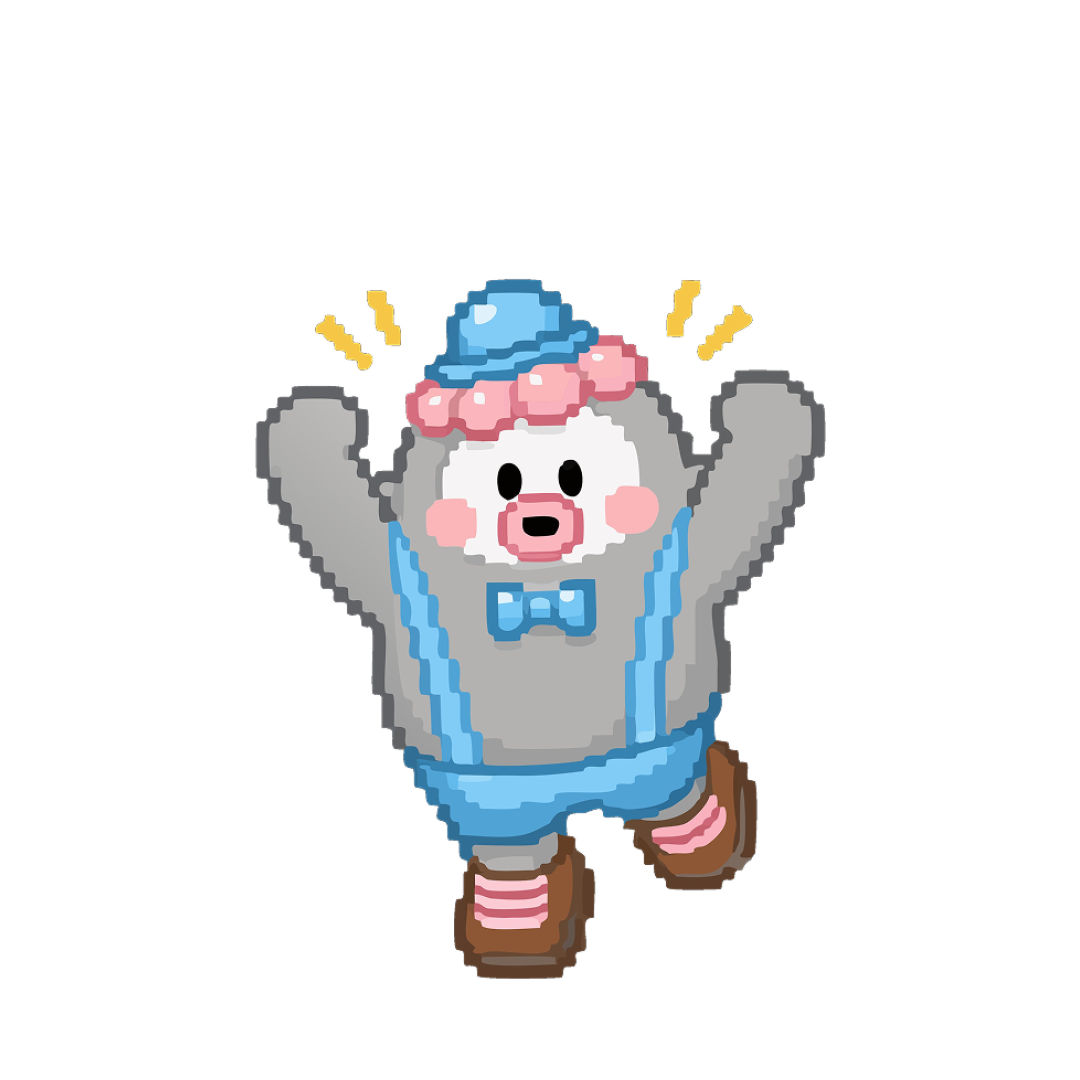
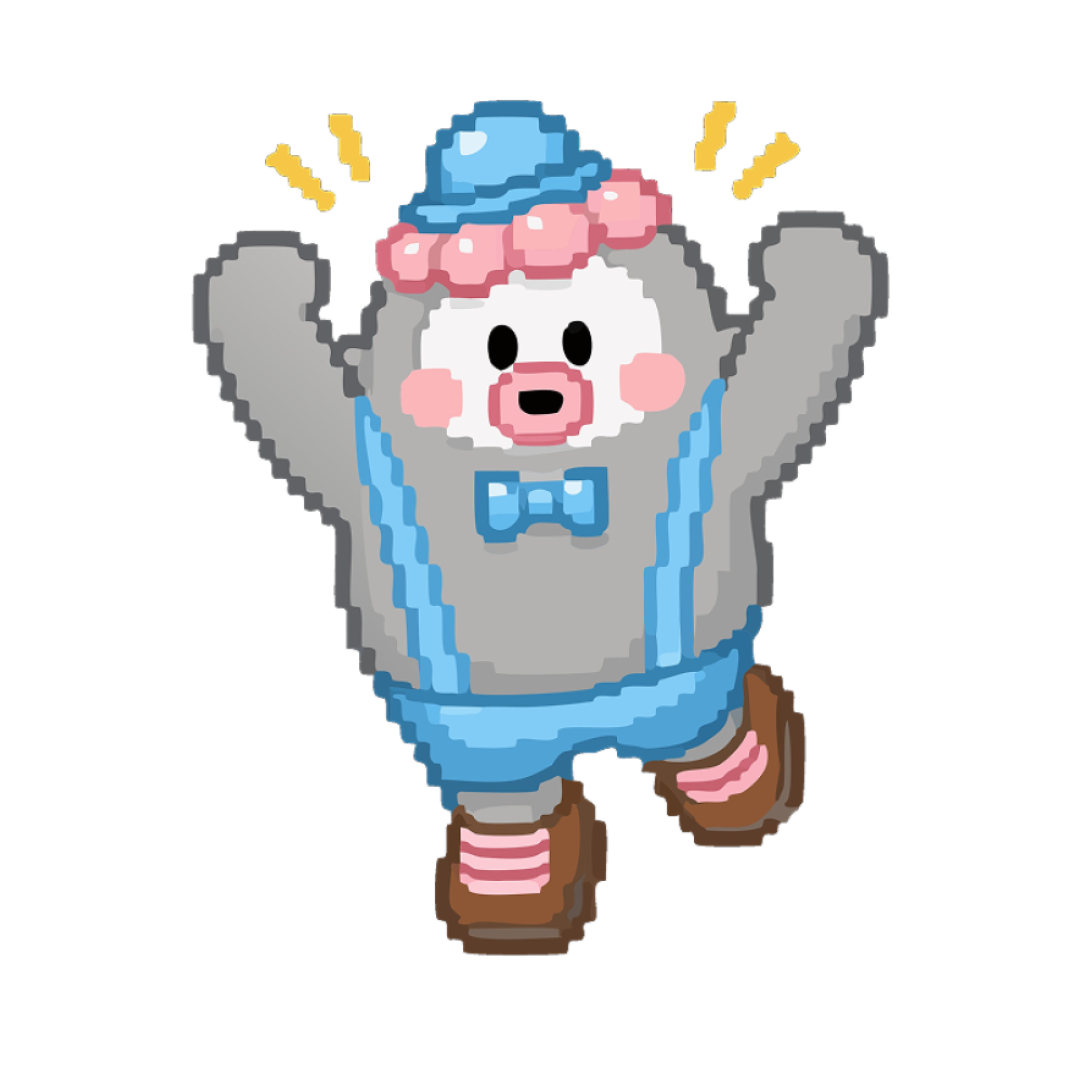
feat(character): 윙피 걷기 추가 + 모션 스케일 통일 + 말풍선 3줄 여유공간 + 꾸미기 편집 z-order 안정화 + 테스트 언락 플래그
- 윙피 걷기 모션 추가(idle 크기·발 위치 정규화, 3프레임 순환), 윙피 전체 모션을 idle 스케일(0.9)로 통일해 모션↔idle 전환 축소 제거
- 큰 캐릭터(윙피) 창 높이를 폭의 1.2배로(아래 정사각에 캐릭터 고정) 늘려 3줄 말풍선이 창 밖으로 잘리지 않게(말풍선 크기·위치는 유지). window:setSize는 아래변 고정으로 그라운딩 유지
- 꾸미기 편집 진입을 setWorldEditable에서 원자적으로(전체화면+표시+클릭수신+최상위) 처리, 오버레이는 normal 레벨·메뉴는 pop-up-menu 레벨로 z-order 고정 → 편집 중 전 화면 클릭 막힘 방지
- 테스트 빌드용 전체 잠금 해제: VITE_TEST_UNLOCK=1 빌드에서만 시작 시 캐릭터·펫·데코(각 99개) 강제 해제(runtime 카탈로그 id 사용, 기존 config 무관). 배포 빌드는 무동작

Changed region(s): [[0.1528, 0.0917, 0.825, 0.9167]]

diff --git a/src/renderer/src/app/App.tsx b/src/renderer/src/app/App.tsx
@@ -263,8 +263,9 @@ export const App = () => {
             return
         }
 
-        // 마지막 두 프레임만 번갈아 반복해 걸음걸이를 만든다.
-        const loop = frames.slice(-2)
+        // 걷기 순환 프레임. 기본은 마지막 두 프레임만 번갈아 반복.
+        // 윙피는 3프레임 전체를 순환한다(1번 포즈도 걷기에 포함되도록).
+        const loop = selectedCharacterId === 'wingpee' ? frames : frames.slice(-2)
         let frameIndex = 0
         setWalkFrameSrc(loop[0])
         const frameTimer = setInterval(() => {
@@ -403,16 +404,25 @@ export const App = () => {
     // 값 = 창 바닥에서의 %(말풍선 아래변 위치). 머리 위 공간을 최대한 써서 같은 크기 2줄도 안 잘리고
     // 캐릭터도 안 덮는다. 윙피는 CharacterView에서 8% 아래로 내려(머리 ~33.6%) 위 공간을 넓혔으므로,
     // 아래변을 위에서 ~33%(bottom 67%)에 둬 위로 자랄 공간을 창의 33%(≈79px)로 확보 → 3줄도 안 잘림.
-    const CHARACTER_BUBBLE_BOTTOM_PCT: Record<string, number> = { wingpee: 67 }
-    const bubbleBottomPct = CHARACTER_BUBBLE_BOTTOM_PCT[selectedCharacterId]
+    // 큰 캐릭터(윙피)는 창 높이를 폭보다 크게 잡아 머리 위 말풍선(3줄)이 창 밖으로 잘리지 않게 한다.
+    // 캐릭터는 아래 정사각 영역에 그대로 그려지고, 늘어난 위쪽은 말풍선 여유 공간으로만 쓴다.
+    const WINDOW_HEIGHT_RATIO: Record<string, number> = { wingpee: 1.2 }
+    const windowHeightRatio = WINDOW_HEIGHT_RATIO[selectedCharacterId] ?? 1
+    // 말풍선 아래변 위치(창 바닥 대비 %). 창이 높아진 만큼 %를 낮춰, 캐릭터 대비 위치는 그대로 유지한다.
+    const CHARACTER_BUBBLE_BOTTOM_PCT: Record<string, number> = { wingpee: 74 }
+    const rawBubbleBottomPct = CHARACTER_BUBBLE_BOTTOM_PCT[selectedCharacterId]
+    const bubbleBottomPct =
+        rawBubbleBottomPct === undefined
+            ? undefined
+            : Math.round(rawBubbleBottomPct / windowHeightRatio)
     useEffect(() => {
         // preload가 아직 setWindowSize를 노출하지 않으면(dev에서 preload 미재시작) 건너뛴다.
         if (!window.api?.setWindowSize) {
             return
         }
         const size = Math.round(BASE_WINDOW_SIZE * petScale)
-        window.api.setWindowSize(size, size)
-    }, [petScale])
+        window.api.setWindowSize(size, Math.round(size * windowHeightRatio))
+    }, [petScale, windowHeightRatio])
 
     // 생일 축하 — 생일 당일이면 축하 멘트 + 보너스 포인트(연 1회, localStorage로 중복 방지).
     const profileForBirthday = useProfile()
@@ -441,18 +451,30 @@ export const App = () => {
                 onClose={dismissSpeech}
                 bottomAnchorPct={bubbleBottomPct}
             />
-            <CharacterView
-                characterId={selectedCharacterId}
-                mood={mood}
-                state={characterState}
-                overrideSrc={overrideSrc}
-                isMotionFrame={isMotionFrame}
-                flip={walkDirection === 'left'}
-                onMouseDown={handleMouseDown}
-                onContextMenu={handleContextMenu}
-                onMouseEnter={startHoverExpression}
-                onMouseLeave={stopHoverExpression}
-            />
+            {/* 캐릭터는 창 하단의 정사각 영역에 그린다(그라운딩 유지). 창이 폭보다 높으면
+                늘어난 위쪽은 말풍선 공간으로만 남는다. 정사각일 땐 창 전체와 동일. */}
+            <div
+                style={{
+                    position: 'absolute',
+                    left: 0,
+                    right: 0,
+                    bottom: 0,
+                    aspectRatio: '1 / 1',
+                }}
+            >
+                <CharacterView
+                    characterId={selectedCharacterId}
+                    mood={mood}
+                    state={characterState}
+                    overrideSrc={overrideSrc}
+                    isMotionFrame={isMotionFrame}
+                    flip={walkDirection === 'left'}
+                    onMouseDown={handleMouseDown}
+                    onContextMenu={handleContextMenu}
+                    onMouseEnter={startHoverExpression}
+                    onMouseLeave={stopHoverExpression}
+                />
+            </div>
             {petId && (
                 <div
                     className='pet-companion'

diff --git a/src/main/index.ts b/src/main/index.ts
@@ -144,25 +144,37 @@ const setWorldEditable = (editable: boolean): void => {
     if (!worldWindow || worldWindow.isDestroyed()) {
         return
     }
-    worldWindow.setIgnoreMouseEvents(!editable)
     if (editable) {
-        // 편집 중엔 오버레이를 최상위로 올려 데코가 다른 창/바탕화면 뒤로 숨지 않게 한다.
-        // - macOS: 'normal' 레벨로만 올린다(기존 동작). Space 특성상 이걸로 충분하고,
-        //   'floating'으로 올리면 전체화면 데코가 메뉴 창을 덮는다.
-        // - Windows: always-on-top이 아니면 다른 창/바탕화면을 클릭하는 순간 오버레이가 그 뒤로
-        //   깔려 올린 데코가 안 보이고 편집이 막힌다("화면 멈춤"처럼 느껴짐). 그래서 항상 최상위로 유지.
-        //   메뉴 창은 아래 setMenuPanelOnTop에서 이 오버레이보다 더 위로 올려 저장/취소를 보장한다.
+        // 편집 진입을 여기서 원자적으로 완성한다(창 크기/표시/클릭수신/최상위를 한 번에).
+        // 창 축소(고정 모드) 리라이트 이후, 편집 진입 시 반드시 전체화면 + 상호작용 상태가 되도록
+        // sync 타이밍에 의존하지 않고 직접 설정한다. (패키지 빌드에서 클릭이 안 먹던 문제 방지.)
+        const display = screen.getPrimaryDisplay().bounds
+        worldWindow.setBounds({
+            x: display.x,
+            y: display.y,
+            width: display.width,
+            height: display.height,
+        })
+        worldWindow.setIgnoreMouseEvents(false)
+        // Windows: always-on-top이 아니면 다른 창/바탕화면을 클릭하는 순간 오버레이가 뒤로 깔려
+        // 편집이 막힌다("화면 멈춤"처럼 느껴짐). 단 오버레이는 '낮은(normal) 레벨'로만 올려,
+        // 메뉴 창(아래 setMenuPanelOnTop에서 더 높은 레벨)이 항상 오버레이 위에 오게 한다.
+        // (두 창 다 단순 always-on-top이면 z-order 경쟁으로 오버레이가 메뉴를 덮어 전 화면 클릭이 막힘.)
         if (process.platform === 'darwin') {
             worldWindow.setAlwaysOnTop(false)
         } else {
-            worldWindow.setAlwaysOnTop(true)
+            worldWindow.setAlwaysOnTop(true, 'normal')
+        }
+        if (!worldWindow.isVisible()) {
+            worldWindow.showInactive()
         }
         worldWindow.moveTop()
     } else {
+        worldWindow.setIgnoreMouseEvents(true)
         // 고정 모드로 돌아오면 다시 최하단 레벨로 못박는다.
         pinWorldToBottom()
     }
-    // 메뉴 창을 데코 창 위로 — 편집 중 메뉴 버튼/보관함 클릭이 가려지지 않게.
+    // 메뉴 창을 데코 창 위로 — 편집 중 메뉴 버튼/보관함/데코 카드 클릭이 가려지지 않게(오버레이보다 앞).
     setMenuPanelOnTop(editable)
 }
 

diff --git a/src/renderer/src/app/testUnlock.ts b/src/renderer/src/app/testUnlock.ts
@@ -1,0 +1,42 @@
+import { PET_CATALOG } from '@renderer/entities/pet'
+import { DECOR_ITEMS } from '@renderer/entities/world'
+
+// 테스트 빌드 전용 전체 잠금 해제.
+// VITE_TEST_UNLOCK=1 로 빌드했을 때만 동작하며, 시작 시 캐릭터·펫·데코(꾸미기)를 모두 보유 처리한다.
+// 런타임 카탈로그의 실제 id를 그대로 쓰므로 한글 데코 id 정규화 문제나 기존 config 잔존값과 무관하게
+// 확실히 해제된다. 배포 빌드(플래그 미설정)에서는 이 함수가 아무 것도 하지 않는다.
+// (localStorage 가드로 설치당 1회만 실행 — 반복 acquire로 데코 수량이 불어나는 것을 막는다.)
+const ALL_CHARACTERS = ['piyoo', 'qupee', 'suupee', 'wingpee']
+
+export const runTestUnlockIfEnabled = async (): Promise<void> => {
+    const enabled = (import.meta.env as Record<string, string | undefined>).VITE_TEST_UNLOCK
+    if (!enabled) {
+        return
+    }
+    if (localStorage.getItem('loopf.testUnlockDone.v2') === '1') {
+        return
+    }
+    try {
+        // 캐릭터: 스타터 확정(온보딩 스킵) + 나머지 전부 보유.
+        await window.api.characterSelection.apply({ type: 'choose', characterId: 'piyoo' })
+        for (const characterId of ALL_CHARACTERS) {
+            await window.api.characterSelection.apply({ type: 'unlock', characterId })
+        }
+        // 펫: 전부 보유.
+        for (const pet of PET_CATALOG) {
+            await window.api.petSelection.apply({ type: 'unlock', petId: pet.id })
+        }
+        // 데코(꾸미기): 전부 넉넉히 보유(각 99개). 배치해도 0개가 되어 잠기지 않도록.
+        // commitLayout으로 보유 수량을 통째로 지정하되, 이미 배치된 데코는 보존한다.
+        const current = await window.api.world.get()
+        const ownedAll = Object.fromEntries(DECOR_ITEMS.map((decor) => [decor.id, 99]))
+        await window.api.world.apply({
+            type: 'commitLayout',
+            owned: ownedAll,
+            placed: current.placed,
+        })
+        localStorage.setItem('loopf.testUnlockDone.v2', '1')
+    } catch {
+        // 해제 실패는 앱 동작에 영향을 주지 않으므로 무시한다.
+    }
+}

diff --git a/src/renderer/src/entities/character/ui/CharacterView.tsx b/src/renderer/src/entities/character/ui/CharacterView.tsx
@@ -34,12 +34,10 @@ const CHARACTER_DISPLAY_SCALE: Record<CharacterId, number> = {
 }
 
 // 모션/표정(override 프레임)일 때 쓸 배율 오버라이드 — 모션 원본이 기본 포즈와 프레이밍이 달라
-// 기본 배율로는 크기가 안 맞는 캐릭터만 지정한다. 없으면 위 기본 배율을 그대로 쓴다.
-const CHARACTER_MOTION_SCALE: Partial<Record<CharacterId, number>> = {
-    // piyoo는 모션 배율을 idle(base 0.9)과 통일한다 — 모션↔idle 전환 순간 스케일이 바뀌며
-    // 걷기 종료 등에서 한 프레임 축소되어 보이던 '작아짐'을 없애기 위함. 프레임은 0.9 기준으로 재정규화됨.
-    wingpee: 1.1,
-}
+// 기본 배율로는 크기가 안 맞는 캐릭터만 지정한다. 없으면 위 기본 배율(=idle)을 그대로 쓴다.
+// piyoo·wingpee는 모션 배율을 idle(base 0.9)과 통일했다 — 모션↔idle 전환 순간 스케일이 바뀌며
+// 걷기 종료 등에서 한 프레임 축소돼 보이던 '작아짐'을 없애기 위함. 프레임은 0.9 기준으로 재정규화됨.
+const CHARACTER_MOTION_SCALE: Partial<Record<CharacterId, number>> = {}
 
 // 캐릭터별 세로 위치 오프셋(창 높이 대비 %, 양수=아래로). 크기는 그대로 두고 위치만 내린다.
 // 창을 많이 채워 머리가 위쪽인 캐릭터(윙피)는 아래로 내려 머리 위 말풍선 공간을 확보한다.

diff --git a/src/main/window/ipc.ts b/src/main/window/ipc.ts
@@ -100,7 +100,9 @@ export const registerWindowIpc = (): void => {
         const nextWidth = Math.round(width)
         const nextHeight = Math.round(height)
         const nextX = Math.round(currentX + (currentWidth - nextWidth) / 2)
-        const nextY = Math.round(currentY + (currentHeight - nextHeight) / 2)
+        // 세로는 '아래 변'을 고정한다 — 캐릭터는 창 하단 정사각 영역에 그라운딩돼 있어,
+        // 높이가 바뀌어도(캐릭터 전환/크기 변경) 캐릭터가 화면에서 제자리에 있도록 한다.
+        const nextY = Math.round(currentY + (currentHeight - nextHeight))
         // 이후 이동(dragTo/moveTo)이 이 크기로 매번 못박도록 고정 크기를 갱신한다.
         // 이렇게 하면 그간 쌓인 드리프트도 크기 변경 시 원래 의도한 크기로 교정된다.
         lockedSizes.set(win, { width: nextWidth, height: nextHeight })

diff --git a/src/main/panels/openMenuPanel.ts b/src/main/panels/openMenuPanel.ts
@@ -80,9 +80,13 @@ export const registerMenuResizeIpc = (): void => {
 // 오버레이보다 확실히 앞에 두어야 저장/취소 버튼이 항상 눌린다.
 export const setMenuPanelOnTop = (flag: boolean): void => {
     if (menuWindow && !menuWindow.isDestroyed()) {
-        menuWindow.setAlwaysOnTop(flag)
         if (flag) {
+            // 편집 중엔 오버레이('normal' 레벨)보다 확실히 높은 레벨로 올려, 데코 카드·저장/취소 클릭이
+            // 오버레이에 가려지지 않게 한다(z-order 경쟁 방지 → 전 화면 클릭 막힘 방지).
+            menuWindow.setAlwaysOnTop(true, 'pop-up-menu')
             menuWindow.moveTop()
+        } else {
+            menuWindow.setAlwaysOnTop(false)
         }
     }
 }

diff --git a/src/renderer/src/app/main.tsx b/src/renderer/src/app/main.tsx
@@ -5,6 +5,7 @@ import { initializeProfileSync } from '@renderer/entities/profile'
 import { initializePetSync } from '@renderer/entities/pet'
 import { initializeSettingsSync } from '@renderer/entities/settings'
 import { App } from './App'
+import { runTestUnlockIfEnabled } from './testUnlock'
 import './styles/base.css'
 import './styles/global.css'
 
@@ -13,6 +14,9 @@ initializeCharacterSelectionSync()
 initializeProfileSync()
 initializePetSync()
 initializeSettingsSync()
+
+// 테스트 빌드(VITE_TEST_UNLOCK=1)에서만 캐릭터·펫·데코 전체 잠금 해제. 배포 빌드에선 무동작.
+void runTestUnlockIfEnabled()
 
 const rootElement = document.getElementById('root')
 
